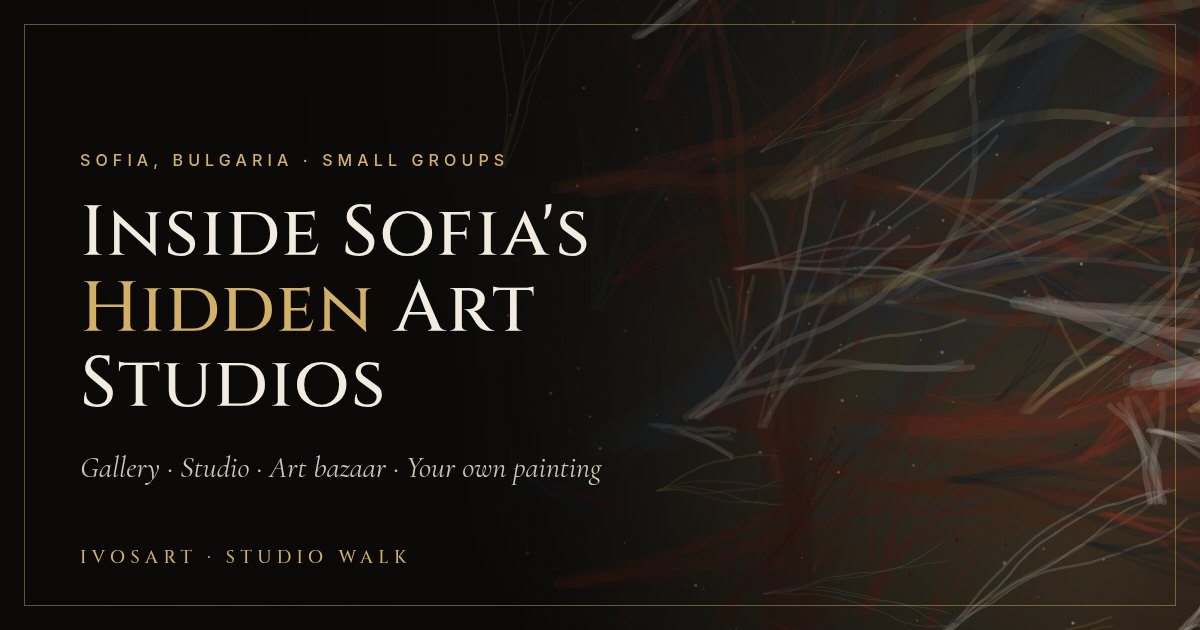
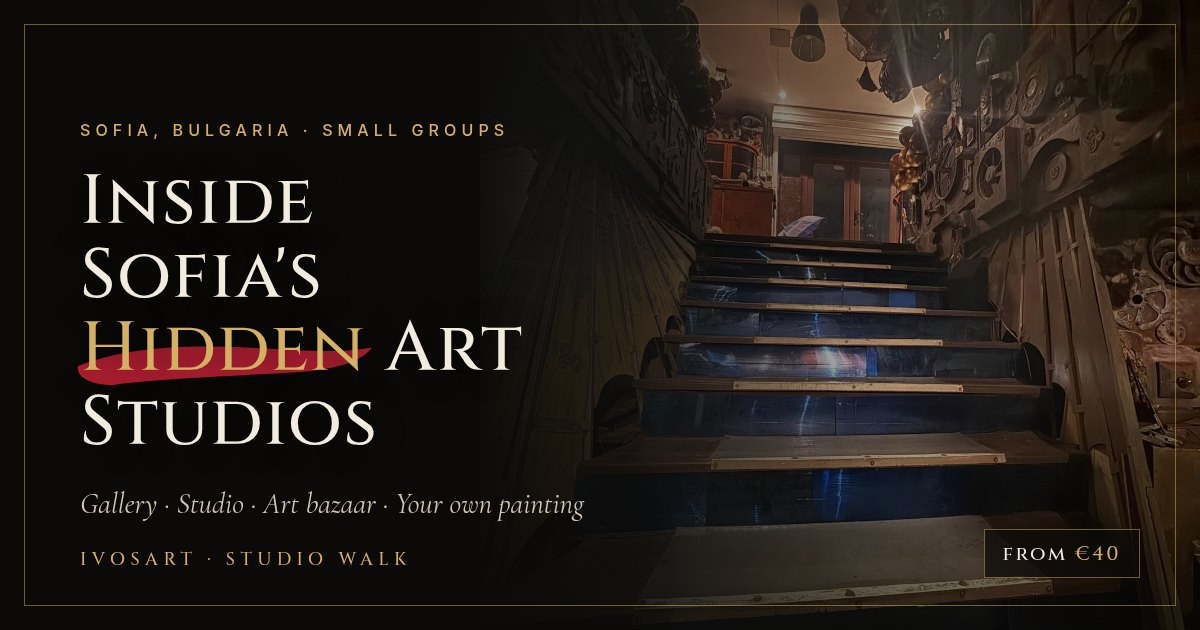
Add real venue photos and glimpses gallery
- Captain Nemo staircase photo in route stop I, Punto Art Bazaar cellist (plate blurred) in stop III, doors kept
- New Glimpses section (EN/BG): swipe strip on mobile, mosaic grid on desktop, tap-to-enlarge lightbox
- Staircase as a dim backdrop on the Captain Nemo Night ticket
- New og-image with the staircase photo
- README photo notes (A02x Studio and artist portrait slots still open)

diff --git a/index.html b/index.html
@@ -149,14 +149,11 @@
         </header>
 
         <ol class="stops">
-          <li class="stop reveal">
-            <!-- PHOTO SLOT: Art Gallery Captain Nemo (interior / original works).
-                 Replace the <canvas class="frame__art"> below with:
-                 <img class="frame__img" src="assets/photos/captain-nemo.jpg" alt="Inside Art Gallery Captain Nemo" loading="lazy" width="1200" height="900">
-                 and delete the "Photo coming soon" <span>. The door animation keeps working on top of the photo. -->
-            <button class="frame door-frame" type="button" aria-expanded="false" data-i18n-aria="door.aria" aria-label="Open the door">
-              <canvas class="frame__art" data-seed="111" data-pal="gallery" aria-hidden="true"></canvas>
-              <span class="frame__label" data-i18n="photo.soon">Photo coming soon</span>
+          <li class="stop stop--nemo reveal">
+            <!-- PHOTO: Art Gallery Captain Nemo — the staircase (assets/photos/captain-nemo-staircase.jpg/.webp).
+                 Crop is tuned with object-position in styles.css (.stop--nemo .frame__img). -->
+            <button class="frame door-frame door-frame--photo" type="button" aria-expanded="false" data-i18n-aria="door.aria" aria-label="Open the door">
+              <picture><source type="image/webp" srcset="assets/photos/captain-nemo-staircase.webp"><img class="frame__img" src="assets/photos/captain-nemo-staircase.jpg" alt="Glowing blue glass staircase with brass edges inside Art Gallery Captain Nemo, walls covered in gears and machine parts" data-i18n-alt="alt.stair" width="1281" height="1600" loading="lazy" decoding="async"></picture>
               <span class="door" aria-hidden="true">
                 <span class="door__leaf door__leaf--l"></span>
                 <span class="door__leaf door__leaf--r"></span>
@@ -172,9 +169,9 @@
           </li>
           <li class="stop reveal">
             <!-- PHOTO SLOT: A02x Studio (paint, canvases, unfinished pieces).
-                 Replace the <canvas class="frame__art"> below with:
-                 <img class="frame__img" src="assets/photos/a02x-studio.jpg" alt="The A02x Studio" loading="lazy" width="1200" height="900">
-                 and delete the "Photo coming soon" <span>. The door animation keeps working on top of the photo. -->
+                 Replace the <canvas class="frame__art"> below with (same pattern as stops I and III):
+                 <picture><source type="image/webp" srcset="assets/photos/a02x-studio.webp"><img class="frame__img" src="assets/photos/a02x-studio.jpg" alt="The A02x Studio" width="1200" height="900" loading="lazy" decoding="async"></picture>
+                 delete the "Photo coming soon" <span>, and add the class door-frame--photo to the <button>. The door animation keeps working on top of the photo. -->
             <button class="frame door-frame" type="button" aria-expanded="false" data-i18n-aria="door.aria" aria-label="Open the door">
               <canvas class="frame__art" data-seed="212" data-pal="studio" aria-hidden="true"></canvas>
               <span class="frame__label" data-i18n="photo.soon">Photo coming soon</span>
@@ -191,14 +188,11 @@
               <p data-i18n="route.s2">The working studio: paint, canvases and unfinished pieces. Watch how abstract expressionism is actually made.</p>
             </div>
           </li>
-          <li class="stop reveal">
-            <!-- PHOTO SLOT: Punto Art Bazaar on Shishman Street.
-                 Replace the <canvas class="frame__art"> below with:
-                 <img class="frame__img" src="assets/photos/punto-art-bazaar.jpg" alt="Punto Art Bazaar on Shishman Street" loading="lazy" width="1200" height="900">
-                 and delete the "Photo coming soon" <span>. The door animation keeps working on top of the photo. -->
-            <button class="frame door-frame" type="button" aria-expanded="false" data-i18n-aria="door.aria" aria-label="Open the door">
-              <canvas class="frame__art" data-seed="313" data-pal="bazaar" aria-hidden="true"></canvas>
-              <span class="frame__label" data-i18n="photo.soon">Photo coming soon</span>
+          <li class="stop stop--punto reveal">
+            <!-- PHOTO: Punto Art Bazaar entrance on Shishman Street (assets/photos/punto-cellist-shishman.jpg/.webp).
+                 Licence plate of the parked car is blurred. Crop tuned in styles.css (.stop--punto .frame__img). -->
+            <button class="frame door-frame door-frame--photo" type="button" aria-expanded="false" data-i18n-aria="door.aria" aria-label="Open the door">
+              <picture><source type="image/webp" srcset="assets/photos/punto-cellist-shishman.webp"><img class="frame__img" src="assets/photos/punto-cellist-shishman.jpg" alt="Copper robot sculpture playing a white cello outside Punto Art Bazaar on Shishman Street" data-i18n-alt="alt.cello" width="1167" height="1600" loading="lazy" decoding="async"></picture>
               <span class="door" aria-hidden="true">
                 <span class="door__leaf door__leaf--l"></span>
                 <span class="door__leaf door__leaf--r"></span>
@@ -224,6 +218,50 @@
             <p class="finale__hint" data-i18n="finale.hint">Go on, tap the canvas. Practice run.</p>
           </div>
         </div>
+      </div>
+    </section>
+
+
+    <!-- ================= GLIMPSES (real photos) ================= -->
+    <section class="section glimpses" id="glimpses" aria-labelledby="glimpses-title">
+      <div class="wrap">
+        <header class="section__head reveal">
+          <p class="kicker" data-i18n="gl.kicker">Glimpses</p>
+          <h2 id="glimpses-title" data-i18n="gl.title">A peek behind the doors</h2>
+          <svg class="brush" viewBox="0 0 300 24" preserveAspectRatio="none" aria-hidden="true"><path pathLength="1" d="M6 15 C 60 6, 110 20, 160 12 S 250 6, 294 13"/><path class="brush__thin" pathLength="1" d="M30 19 C 90 14, 170 22, 270 17"/></svg>
+          <p class="section__sub" data-i18n="gl.sub">Tap any photo to see it big.</p>
+        </header>
+        <ul class="glimpses__grid reveal" id="glimpses-list">
+          <li class="glimpse g--stair">
+            <button type="button" class="glimpse__btn" data-index="0" data-src="assets/photos/captain-nemo-staircase" data-w="1281" data-h="1600" data-cap="gl.c1" data-alt="alt.stair">
+              <picture><source type="image/webp" srcset="assets/photos/captain-nemo-staircase.webp" sizes="(min-width: 720px) 40vw, 80vw"><img class="glimpse__img" src="assets/photos/captain-nemo-staircase.jpg" alt="Glowing blue glass staircase with brass edges inside Art Gallery Captain Nemo, walls covered in gears and machine parts" data-i18n-alt="alt.stair" width="1281" height="1600" loading="lazy" decoding="async"></picture>
+              <span class="glimpse__cap"><i>01</i><span data-i18n="gl.c1">Art Gallery Captain Nemo</span></span>
+              <span class="glimpse__zoom" aria-hidden="true"><svg viewBox="0 0 24 24"><circle cx="10.5" cy="10.5" r="6"/><path d="M15 15l5 5M10.5 8v5M8 10.5h5"/></svg></span>
+            </button>
+          </li>
+          <li class="glimpse g--interior">
+            <button type="button" class="glimpse__btn" data-index="1" data-src="assets/photos/bazaar-interior" data-w="1361" data-h="756" data-cap="gl.c2" data-alt="alt.interior">
+              <picture><source type="image/webp" srcset="assets/photos/bazaar-interior.webp" sizes="(min-width: 720px) 40vw, 80vw"><img class="glimpse__img" src="assets/photos/bazaar-interior.jpg" alt="A shop seen from a mezzanine: olive green wall with clocks and framed pictures, jewellery cases, shelves and a steampunk lamp" data-i18n-alt="alt.interior" width="1361" height="756" loading="lazy" decoding="async"></picture>
+              <span class="glimpse__cap"><i>02</i><span data-i18n="gl.c2">Treasures on every shelf</span></span>
+              <span class="glimpse__zoom" aria-hidden="true"><svg viewBox="0 0 24 24"><circle cx="10.5" cy="10.5" r="6"/><path d="M15 15l5 5M10.5 8v5M8 10.5h5"/></svg></span>
+            </button>
+          </li>
+          <li class="glimpse g--cello">
+            <button type="button" class="glimpse__btn" data-index="2" data-src="assets/photos/punto-cellist-shishman" data-w="1167" data-h="1600" data-cap="gl.c3" data-alt="alt.cello">
+              <picture><source type="image/webp" srcset="assets/photos/punto-cellist-shishman.webp" sizes="(min-width: 720px) 40vw, 80vw"><img class="glimpse__img" src="assets/photos/punto-cellist-shishman.jpg" alt="Copper robot sculpture playing a white cello outside Punto Art Bazaar on Shishman Street" data-i18n-alt="alt.cello" width="1167" height="1600" loading="lazy" decoding="async"></picture>
+              <span class="glimpse__cap"><i>03</i><span data-i18n="gl.c3">Punto Art Bazaar, Shishman St.</span></span>
+              <span class="glimpse__zoom" aria-hidden="true"><svg viewBox="0 0 24 24"><circle cx="10.5" cy="10.5" r="6"/><path d="M15 15l5 5M10.5 8v5M8 10.5h5"/></svg></span>
+            </button>
+          </li>
+          <li class="glimpse g--rings">
+            <button type="button" class="glimpse__btn" data-index="3" data-src="assets/photos/silver-rings" data-w="1157" data-h="1600" data-cap="gl.c4" data-alt="alt.rings">
+              <picture><source type="image/webp" srcset="assets/photos/silver-rings.webp" sizes="(min-width: 720px) 40vw, 80vw"><img class="glimpse__img" src="assets/photos/silver-rings.jpg" alt="Wooden display box of ornate silver rings: skulls, a lion, a diving helmet and red stones" data-i18n-alt="alt.rings" width="1157" height="1600" loading="lazy" decoding="async"></picture>
+              <span class="glimpse__cap"><i>04</i><span data-i18n="gl.c4">Silver, skulls and secrets</span></span>
+              <span class="glimpse__zoom" aria-hidden="true"><svg viewBox="0 0 24 24"><circle cx="10.5" cy="10.5" r="6"/><path d="M15 15l5 5M10.5 8v5M8 10.5h5"/></svg></span>
+            </button>
+          </li>
+        </ul>
+        <p class="glimpses__swipe" aria-hidden="true"><span data-i18n="gl.swipe">Swipe for more</span> <b>→</b></p>
       </div>
     </section>
 
@@ -454,6 +492,18 @@
       <span class="bookbar__meta" data-i18n="bar.meta">2.5 h · up to 8</span>
     </div>
     <a class="btn btn--gold btn--sm js-book" href="#contact" tabindex="-1" data-i18n="bar.book">Book</a>
+  </div>
+
+  <!-- Lightbox for the Glimpses photos -->
+  <div class="lightbox" id="lightbox" role="dialog" aria-modal="true" aria-labelledby="lbCap" hidden>
+    <button type="button" class="lightbox__close" data-i18n-aria="lb.close" aria-label="Close">×</button>
+    <button type="button" class="lightbox__nav lightbox__nav--prev" data-i18n-aria="lb.prev" aria-label="Previous photo">‹</button>
+    <figure class="lightbox__fig">
+      <picture><source type="image/webp" id="lbWebp"><img id="lbImg" alt=""></picture>
+      <figcaption><span id="lbCap"></span><small id="lbCount"></small></figcaption>
+    </figure>
+    <button type="button" class="lightbox__nav lightbox__nav--next" data-i18n-aria="lb.next" aria-label="Next photo">›</button>
+    <p class="lightbox__hint" data-i18n="lb.hint">Swipe to browse · tap to close</p>
   </div>
 
   <!-- Full-screen effects layer for paint bursts (decorative, never blocks taps) -->

diff --git a/script.js b/script.js
@@ -17,6 +17,14 @@ const CONFIG = {
    ========================================================================== */
 const I18N = {
   en: {
+    'gl.kicker': 'Glimpses', 'gl.title': 'A peek behind the doors', 'gl.sub': 'Tap any photo to see it big.', 'gl.swipe': 'Swipe for more',
+    'gl.c1': 'Art Gallery Captain Nemo', 'gl.c2': 'Treasures on every shelf', 'gl.c3': 'Punto Art Bazaar, Shishman St.', 'gl.c4': 'Silver, skulls and secrets',
+    'alt.stair': 'Glowing blue glass staircase with brass edges inside Art Gallery Captain Nemo, walls covered in gears and machine parts',
+    'alt.cello': 'Copper robot sculpture playing a white cello outside Punto Art Bazaar on Shishman Street',
+    'alt.interior': 'A shop seen from a mezzanine: olive green wall with clocks and framed pictures, jewellery cases, shelves and a steampunk lamp',
+    'alt.rings': 'Wooden display box of ornate silver rings: skulls, a lion, a diving helmet and red stones',
+    'lb.close': 'Close', 'lb.prev': 'Previous photo', 'lb.next': 'Next photo', 'lb.hint': 'Swipe to browse · tap to close',
+
     'hero.hintTouch': 'Tap the dark. Throw some paint.', 'hero.hintMouse': 'Click & drag to throw paint',
     'route.sub': 'Tap a door to knock.', 'door.knock': 'Knock, knock', 'door.aria': 'Open or close the door',
     'finale.hint': 'Go on, tap the canvas. Practice run.',
@@ -80,6 +88,14 @@ const I18N = {
     'meta.title': 'Sofia Open Art Studio Tour · IVOSART Studio Walk · Art Gallery Captain Nemo'
   },
   bg: {
+    'gl.kicker': 'Мигове', 'gl.title': 'Надникнете зад вратите', 'gl.sub': 'Докоснете снимка, за да я видите на цял екран.', 'gl.swipe': 'Плъзнете за още',
+    'gl.c1': 'Art Gallery Captain Nemo', 'gl.c2': 'Съкровища на всеки рафт', 'gl.c3': 'Punto Art Bazaar, ул. „Шишман“', 'gl.c4': 'Сребро, черепи и тайни',
+    'alt.stair': 'Светещо синьо стъклено стълбище с месингови ръбове в Art Gallery Captain Nemo, стените са покрити със зъбни колела и машинни части',
+    'alt.cello': 'Медна скулптура на робот, който свири на бяло виолончело пред Punto Art Bazaar на улица „Шишман“',
+    'alt.interior': 'Магазин, гледан от мецанин: маслиненозелена стена с часовници и картини в рамки, витрини с бижута, рафтове и стиймпънк лампа',
+    'alt.rings': 'Дървена витрина с изящни сребърни пръстени: черепи, лъв, водолазен шлем и червени камъни',
+    'lb.close': 'Затвори', 'lb.prev': 'Предишна снимка', 'lb.next': 'Следваща снимка', 'lb.hint': 'Плъзнете за още · докоснете, за да затворите',
+
     'hero.hintTouch': 'Докоснете тъмното. Хвърлете боя.', 'hero.hintMouse': 'Кликнете и плъзнете, за да хвърлите боя',
     'route.sub': 'Докоснете врата, за да почукате.', 'door.knock': 'Чук-чук', 'door.aria': 'Отвори или затвори вратата',
     'finale.hint': 'Хайде, докоснете платното. За загрявка.',
@@ -201,6 +217,7 @@ const I18N = {
     $$('[data-i18n]').forEach(el => { const v = t(el.dataset.i18n); if (v) el.textContent = v; });
     $$('[data-i18n-html]').forEach(el => { const v = t(el.dataset.i18nHtml); if (v) el.innerHTML = v; });
     $$('[data-i18n-aria]').forEach(el => el.setAttribute('aria-label', t(el.dataset.i18nAria)));
+    $$('[data-i18n-alt]').forEach(el => { const v = t(el.dataset.i18nAlt); if (v) el.alt = v; });
     document.dispatchEvent(new CustomEvent('langchange'));
     $$('.lang__btn').forEach(b => b.setAttribute('aria-pressed', String(b.dataset.lang === lang)));
     document.title = t('meta.title');
@@ -596,5 +613,66 @@ const I18N = {
       setTimeout(() => tk.classList.add('is-picked'), 400);
     });
     document.addEventListener('langchange', renderResult);
+  }
+
+  /* ==========================================================================
+     Glimpses lightbox: tap to open; tap / Esc / swipe down to close;
+     swipe sideways, arrow keys or the ‹ › buttons to browse.
+     ========================================================================== */
+  const lb = $('#lightbox');
+  if (lb) {
+    const items = $$('.glimpse__btn');
+    const img = $('#lbImg'), webp = $('#lbWebp'), cap = $('#lbCap'), count = $('#lbCount');
+    let cur = 0, opener = null, sx = 0, sy = 0, moved = false;
+    const render = () => {
+      const b = items[cur];
+      webp.srcset = b.dataset.src + '.webp';
+      img.src = b.dataset.src + '.jpg'; img.width = +b.dataset.w; img.height = +b.dataset.h;
+      img.alt = t(b.dataset.alt); cap.textContent = t(b.dataset.cap);
+      count.textContent = `${cur + 1} / ${items.length}`;
+    };
+    const go = d => {
+      cur = (cur + d + items.length) % items.length;
+      if (reduce) return render();
+      lb.classList.add('is-swapping');
+      setTimeout(() => { render(); lb.classList.remove('is-swapping'); }, 180);
+    };
+    const open = i => {
+      cur = i; opener = document.activeElement; render();
+      lb.hidden = false; document.body.style.overflow = 'hidden';
+      $('.lightbox__close', lb).focus({ preventScroll: true });
+    };
+    const close = () => {
+      if (lb.hidden) return;
+      lb.hidden = true; document.body.style.overflow = '';
+      if (opener) opener.focus({ preventScroll: true });
+    };
+    items.forEach((b, i) => b.addEventListener('click', () => open(i)));
+    $('.lightbox__close', lb).addEventListener('click', e => { e.stopPropagation(); close(); });
+    $('.lightbox__nav--prev', lb).addEventListener('click', e => { e.stopPropagation(); go(-1); });
+    $('.lightbox__nav--next', lb).addEventListener('click', e => { e.stopPropagation(); go(1); });
+    lb.addEventListener('pointerdown', e => { sx = e.clientX; sy = e.clientY; moved = false; });
+    lb.addEventListener('pointerup', e => {
+      if (e.target.closest('.lightbox__nav, .lightbox__close')) return;
+      const dx = e.clientX - sx, dy = e.clientY - sy;
+      if (Math.abs(dx) > 45 && Math.abs(dx) > Math.abs(dy)) { moved = true; go(dx < 0 ? 1 : -1); }
+      else if (Math.abs(dy) > 60) { moved = true; close(); }
+    });
+    lb.addEventListener('click', e => {
+      if (e.target.closest('.lightbox__nav, .lightbox__close')) return;
+      if (!moved) close();
+      moved = false;
+    });
+    addEventListener('keydown', e => {
+      if (lb.hidden) return;
+      if (e.key === 'Escape') close();
+      else if (e.key === 'ArrowRight') go(1);
+      else if (e.key === 'ArrowLeft') go(-1);
+      else if (e.key === 'Tab') {                                       // keep focus inside
+        const f = $$('button', lb); const i = f.indexOf(document.activeElement);
+        e.preventDefault(); f[(i + (e.shiftKey ? -1 : 1) + f.length) % f.length].focus();
+      }
+    });
+    document.addEventListener('langchange', () => { if (!lb.hidden) render(); });
   }
 })();

diff --git a/styles.css b/styles.css
@@ -496,3 +496,84 @@ h3{font-size:1.2rem;line-height:1.3}
 .hero .paint-layer{z-index:0}
 .hero__content{position:relative;z-index:1}
 .hero__hint,.hero__scroll{z-index:2}
+
+/* ==========================================================================
+   v3 · REAL PHOTOS — route doors, Glimpses gallery, lightbox
+   ========================================================================== */
+.door-frame .frame__img,.door-frame picture{position:absolute;inset:0;width:100%;height:100%}
+.door-frame .frame__img{object-fit:cover;transition:transform 2.4s var(--ease),filter 1.2s}
+.door-frame--photo{aspect-ratio:4/5}
+.door-frame--photo::after{content:"";position:absolute;inset:0;z-index:1;pointer-events:none;
+  background:linear-gradient(180deg,rgba(11,10,9,0) 55%,rgba(11,10,9,.55));box-shadow:inset 0 0 0 1px rgba(212,176,98,.18)}
+.door-frame--photo:not(.is-open) .frame__img{transform:scale(1.08);filter:brightness(.6)}
+.door-frame--photo.is-open .frame__img{transform:scale(1);filter:none}
+.stop--nemo .frame__img{object-position:50% 62%}
+.stop--punto .frame__img{object-position:45% 40%}
+@media (min-width:720px){ .stops{align-items:stretch} .door-frame--photo,.stops .door-frame{aspect-ratio:4/5} }
+
+/* Glimpses */
+.glimpses{--sec:var(--cobalt);overflow:hidden;isolation:isolate;background:linear-gradient(180deg,var(--ink),#0e0d0d 50%,var(--ink))}
+.glimpses::after{content:"";position:absolute;z-index:-1;pointer-events:none;width:70vmax;height:70vmax;border-radius:50%;filter:blur(40px);
+  right:-35vmax;top:0;background:radial-gradient(closest-side,var(--cobalt),transparent 70%);opacity:.16}
+.glimpses__grid{list-style:none;margin:0;padding:4px 20px 18px;display:flex;gap:14px;overflow-x:auto;scroll-snap-type:x mandatory;
+  -webkit-overflow-scrolling:touch;scrollbar-width:none;margin-inline:-20px;overscroll-behavior-x:contain}
+.glimpses__grid::-webkit-scrollbar{display:none}
+.glimpse{flex:0 0 78%;scroll-snap-align:center;position:relative}
+.glimpse__btn{display:block;position:relative;width:100%;aspect-ratio:4/5;padding:0;border:1px solid var(--gold-hair);background:#0e0d0c;cursor:zoom-in;overflow:hidden;color:inherit;font:inherit}
+.glimpse__btn picture,.glimpse__img{position:absolute;inset:0;width:100%;height:100%}
+.glimpse__img{object-fit:cover;transition:transform 1.2s var(--ease),filter .6s}
+.glimpse__btn::before{content:"";position:absolute;inset:8px;z-index:2;border:1px solid rgba(212,176,98,.28);pointer-events:none;transition:inset .5s var(--ease)}
+.glimpse__btn::after{content:"";position:absolute;inset:0;z-index:1;background:linear-gradient(180deg,transparent 50%,rgba(8,7,6,.85));pointer-events:none}
+.glimpse__btn:hover .glimpse__img{transform:scale(1.05)}
+.glimpse__btn:hover::before{inset:14px}
+.g--stair .glimpse__img{object-position:50% 60%}
+.g--interior .glimpse__img{object-position:48% 50%}
+.g--cello .glimpse__img{object-position:45% 45%}
+.g--rings .glimpse__img{object-position:50% 55%}
+.glimpse__cap{position:absolute;left:20px;right:20px;bottom:18px;z-index:3;display:flex;align-items:baseline;gap:10px;text-align:left;
+  font-family:var(--serif);font-style:italic;font-size:1.15rem;line-height:1.25;color:var(--bone)}
+.glimpse__cap i{font-style:normal;font-family:'Cinzel',serif;color:var(--gold);font-size:.8rem}
+.glimpse__zoom{position:absolute;right:16px;top:16px;z-index:3;width:34px;height:34px;border-radius:50%;display:grid;place-items:center;background:rgba(11,10,9,.6);border:1px solid var(--gold-hair)}
+.glimpse__zoom svg{width:16px;height:16px;fill:none;stroke:var(--gold);stroke-width:1.5}
+.glimpses__swipe{text-align:center;margin:8px 0 0;font-size:.62rem;letter-spacing:.26em;text-transform:uppercase;color:var(--mute)}
+.glimpses__swipe b{color:var(--gold);display:inline-block;animation:nudge 1.6s ease-in-out infinite}
+@keyframes nudge{0%,100%{transform:none}50%{transform:translateX(6px)}}
+@media (min-width:720px){
+  .glimpses__grid{display:grid;grid-template-columns:1.05fr 1fr 1fr;grid-template-rows:repeat(2,minmax(0,300px));overflow:visible;margin:0;padding:0;gap:16px}
+  .glimpse{flex:none}
+  .glimpse__btn{aspect-ratio:auto;height:100%}
+  .g--stair{grid-row:1/3}
+  .g--interior{grid-column:2/4}
+  .glimpses__swipe{display:none}
+}
+@media (min-width:1200px){ .glimpses__grid{grid-template-rows:repeat(2,minmax(0,330px))} }
+
+/* Lightbox */
+.lightbox{position:fixed;inset:0;z-index:120;background:rgba(6,5,5,.96);display:flex;align-items:center;justify-content:center;
+  padding:56px 12px 64px;touch-action:none;animation:lbIn .35s var(--ease)}
+.lightbox[hidden]{display:none}
+@keyframes lbIn{from{opacity:0}to{opacity:1}}
+.lightbox__fig{margin:0;display:flex;flex-direction:column;align-items:center;gap:14px;max-width:100%;max-height:100%}
+.lightbox__fig img{display:block;max-width:min(94vw,1200px);max-height:calc(100vh - 150px);max-height:calc(100dvh - 150px);width:auto;height:auto;
+  border:1px solid var(--gold-hair);box-shadow:0 30px 80px rgba(0,0,0,.7);transition:opacity .25s,transform .35s var(--ease)}
+.lightbox.is-swapping .lightbox__fig img{opacity:0;transform:scale(.97)}
+.lightbox figcaption{display:flex;gap:14px;align-items:baseline;font-family:var(--serif);font-style:italic;font-size:1.2rem;color:var(--bone);text-align:center}
+.lightbox figcaption small{font:500 .62rem/1 var(--sans);letter-spacing:.24em;color:var(--gold);font-style:normal}
+.lightbox__close,.lightbox__nav{position:absolute;z-index:2;background:rgba(11,10,9,.7);border:1px solid var(--gold-dim);color:var(--gold);cursor:pointer;
+  width:46px;height:46px;display:grid;place-items:center;font:300 1.9rem/1 var(--sans);border-radius:50%;transition:background .3s}
+.lightbox__close:hover,.lightbox__nav:hover{background:rgba(212,176,98,.15)}
+.lightbox__close{top:12px;right:12px}
+.lightbox__nav--prev{left:12px;top:50%;transform:translateY(-50%)}
+.lightbox__nav--next{right:12px;top:50%;transform:translateY(-50%)}
+.lightbox__hint{position:absolute;bottom:14px;left:0;right:0;text-align:center;margin:0;font-size:.6rem;letter-spacing:.24em;text-transform:uppercase;color:var(--mute)}
+@media (max-width:719px){ .lightbox__nav{top:auto;bottom:40px;transform:none;width:42px;height:42px} .lightbox__nav--prev{left:16px} .lightbox__nav--next{right:16px} .lightbox__hint{bottom:54px} }
+@media (min-width:720px){ .lightbox__hint{display:none} }
+
+/* Captain Nemo Night card: the staircase as a dim, candle-lit backdrop */
+.ticket--night{isolation:isolate}
+.ticket--night::before{content:"";position:absolute;inset:0;z-index:-1;pointer-events:none;
+  background:linear-gradient(180deg,rgba(16,13,10,.80),rgba(16,13,10,.93) 45%,rgba(16,13,10,.98)),
+    url("assets/photos/captain-nemo-staircase.jpg") 50% 70%/cover no-repeat;
+  background:linear-gradient(180deg,rgba(16,13,10,.80),rgba(16,13,10,.93) 45%,rgba(16,13,10,.98)),
+    image-set(url("assets/photos/captain-nemo-staircase.webp") type("image/webp"),url("assets/photos/captain-nemo-staircase.jpg") type("image/jpeg")) 50% 70%/cover no-repeat}
+@media (prefers-reduced-motion:reduce){ .door-frame--photo .frame__img{transform:none;filter:none} .glimpses__swipe b{animation:none} }

diff --git a/README.md b/README.md
@@ -7,7 +7,7 @@ Bulgarian wine and your own small abstract painting to take home.
 Two tickets: **Studio Walk** (€40, 2.5 hours, up to 8 guests) and **Captain Nemo Night** (€75, 3 hours,
 up to 6 guests, by candlelight). English and Bulgarian (EN/BG toggle in the nav).
 
-Dark-luxury, Gothic Futurist design with playful bits: tap/drag on the hero and the finale to throw paint,
+Dark-luxury, Gothic Futurist design with real venue photos, a "Glimpses" gallery with a tap-to-enlarge lightbox, and playful bits: tap/drag on the hero and the finale to throw paint,
 route cards behind doors that swing open, a "Which evening are you?" quiz, paint bursts on Book buttons,
 and an easter egg on the logo.
 
@@ -19,7 +19,7 @@ Plain static HTML / CSS / JS. No build step, no dependencies (fonts come from Go
 index.html   page structure + SEO / Open Graph tags
 styles.css   all styling
 script.js    CONFIG block, EN/BG translations, animations and interactions
-assets/      favicon, app icons, social preview image (og-image.jpg)
+assets/      favicon, app icons, social preview image (og-image.jpg), photos/
 vercel.json  optional headers for Vercel
 ```
 
@@ -46,13 +46,24 @@ pre-filled email, otherwise WhatsApp, otherwise they scroll to the Contact secti
 
 ### 2. Photos
 
-Search `index.html` for `PHOTO SLOT`. There are four:
+Real photos live in `assets/photos/` as JPG + WebP pairs (served with `<picture>`, WebP first):
 
-- Art Gallery Captain Nemo, A02x Studio, Punto Art Bazaar (route cards): replace the `<canvas class="frame__art">`
-  with the `<img>` line given in the comment, and delete the "Photo coming soon" label. The door animation keeps working.
-- Portrait of Ivaylo (The Artist section): replace the frame `<div>` with the `<img>` line in the comment.
+| File | Used in |
+| --- | --- |
+| `captain-nemo-staircase` | Route stop I (Art Gallery Captain Nemo), Glimpses, Captain Nemo Night ticket backdrop, social preview image |
+| `punto-cellist-shishman` | Route stop III (Punto Art Bazaar, Shishman St.), Glimpses. The parked car's licence plate is blurred. |
+| `bazaar-interior` | Glimpses ("Treasures on every shelf") |
+| `silver-rings` | Glimpses ("Silver, skulls and secrets") |
 
-Put the images in `assets/photos/`.
+Still open (search `index.html` for `PHOTO SLOT`):
+
+- **A02x Studio** (route stop II): replace the `<canvas class="frame__art">` with the `<picture>` snippet in the comment,
+  delete the "Photo coming soon" label and add `door-frame--photo` to the button. The door animation keeps working.
+- **Portrait of Ivaylo** (The Artist section): replace the frame `<div>` with the `<img>` line in the comment.
+
+To add more photos to Glimpses, copy one `<li class="glimpse">` block in `index.html`, point it at the new files,
+give it a new `data-index`, and add its caption / alt text to both languages in `I18N` (`gl.c*`, `alt.*`) in `script.js`.
+The crop of each photo in its frame is set with `object-position` in `styles.css` (look for `.stop--nemo`, `.g--stair`, etc.).
 
 ### 3. Domain
 
